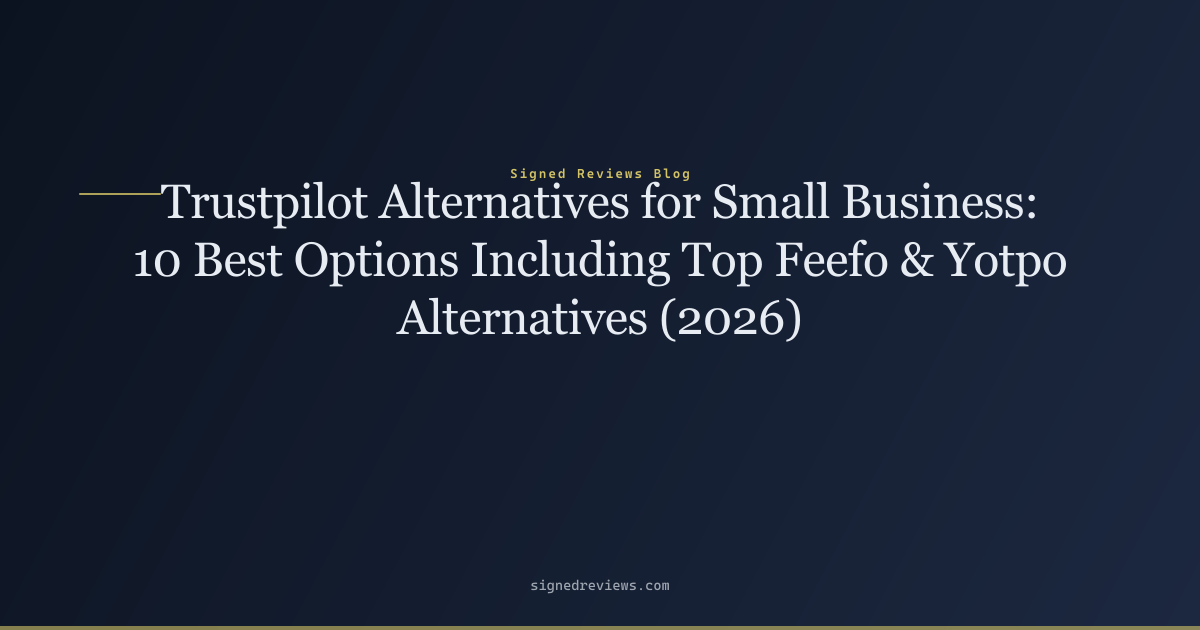
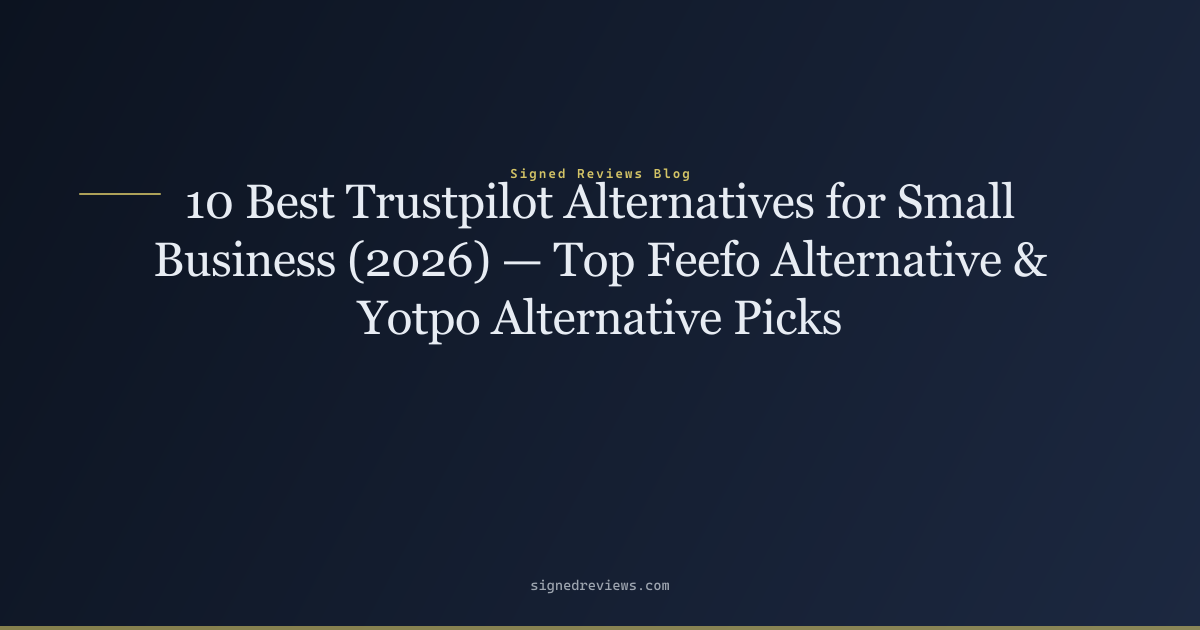
@ SEO: add exact keyword feefo alternative to title
- Changed H1 from "Top Feefo & Yotpo Alternatives" to "Top Feefo Alternative & Yotpo Alternative Picks"
- "feefo alternative" now appears as a contiguous phrase in <title>
- All other elements (meta, H2, body, internal links) unchanged

@

Changed region(s): [[0.0925, 0.2714, 0.8942, 0.5429]]

diff --git a/blog/trustpilot-alternatives-for-small-business/index.html b/blog/trustpilot-alternatives-for-small-business/index.html
@@ -3,20 +3,20 @@
 <head>
   <meta charset="UTF-8">
   <meta name="viewport" content="width=device-width, initial-scale=1.0">
-  <title>Trustpilot Alternatives for Small Business: 10 Best Options Including Top Feefo &amp; Yotpo Alternatives (2026) — Signed Reviews Blog</title>
+  <title>10 Best Trustpilot Alternatives for Small Business (2026) — Top Feefo Alternative &amp; Yotpo Alternative Picks — Signed Reviews Blog</title>
   <meta name="description" content="The 10 best Trustpilot alternatives for small business — including the top feefo alternative and yotpo alternative picks. Ranked by verification strength with p">
   <link rel="canonical" href="https://signedreviews.com/blog/trustpilot-alternatives-for-small-business/">
   <meta name="robots" content="index, follow">
   <meta name="theme-color" content="#0c1320">
 
   <meta property="og:type" content="article">
-  <meta property="og:title" content="Trustpilot Alternatives for Small Business: 10 Best Options Including Top Feefo &amp; Yotpo Alternatives (2026) — Signed Reviews Blog">
+  <meta property="og:title" content="10 Best Trustpilot Alternatives for Small Business (2026) — Top Feefo Alternative &amp; Yotpo Alternative Picks — Signed Reviews Blog">
   <meta property="og:description" content="The 10 best Trustpilot alternatives for small business — including the top feefo alternative and yotpo alternative picks. Ranked by verification strength with p">
   <meta property="og:url" content="https://signedreviews.com/blog/trustpilot-alternatives-for-small-business/">
   <meta property="og:site_name" content="Signed Reviews">
   <meta property="og:image" content="https://signedreviews.com/images/og/trustpilot-alternatives-for-small-business.png">
   <meta name="twitter:card" content="summary_large_image">
-  <meta name="twitter:title" content="Trustpilot Alternatives for Small Business: 10 Best Options Including Top Feefo &amp; Yotpo Alternatives (2026) — Signed Reviews Blog">
+  <meta name="twitter:title" content="10 Best Trustpilot Alternatives for Small Business (2026) — Top Feefo Alternative &amp; Yotpo Alternative Picks — Signed Reviews Blog">
   <meta name="twitter:description" content="The 10 best Trustpilot alternatives for small business — including the top feefo alternative and yotpo alternative picks. Ranked by verification strength with p">
   <meta name="twitter:image" content="https://signedreviews.com/images/og/trustpilot-alternatives-for-small-business.png">
 
@@ -524,9 +524,9 @@ main { padding: 0; }
     })();
   </script>
   <script type="application/ld+json">{"@context":"https://schema.org","@type":"Organization","name":"Signed Reviews","legalName":"Paid Rightly LLC","url":"https://signedreviews.com","logo":"https://signedreviews.com/images/SignedReviews_logo_only.png","description":"Signed Reviews is a SaaS platform that helps businesses collect verified, tamper-evident customer reviews by linking each review to a completed Stripe transaction.","email":"support@signedreviews.com","address":{"@type":"PostalAddress","streetAddress":"1209 Mountain Road Pl NE, Ste N","addressLocality":"Albuquerque","addressRegion":"NM","postalCode":"87110","addressCountry":"US"}}</script>
-  <script type="application/ld+json">{"@context":"https://schema.org","@type":"BreadcrumbList","itemListElement":[{"@type":"ListItem","position":1,"name":"Home","item":"https://signedreviews.com/"},{"@type":"ListItem","position":2,"name":"Blog","item":"https://signedreviews.com/blog/"},{"@type":"ListItem","position":3,"name":"Trustpilot Alternatives for Small Business: 10 Best Options Including Top Feefo & Yotpo Alternatives (2026)","item":"https://signedreviews.com/blog/trustpilot-alternatives-for-small-business/"}]}</script>
+  <script type="application/ld+json">{"@context":"https://schema.org","@type":"BreadcrumbList","itemListElement":[{"@type":"ListItem","position":1,"name":"Home","item":"https://signedreviews.com/"},{"@type":"ListItem","position":2,"name":"Blog","item":"https://signedreviews.com/blog/"},{"@type":"ListItem","position":3,"name":"10 Best Trustpilot Alternatives for Small Business (2026)","item":"https://signedreviews.com/blog/trustpilot-alternatives-for-small-business/"}]}</script>
 
-  <script type="application/ld+json">{"@context":"https://schema.org","@type":"BlogPosting","headline":"Trustpilot Alternatives for Small Business: 10 Best Options Including Top Feefo & Yotpo Alternatives (2026)","description":"The 10 best Trustpilot alternatives for small business — including the top feefo alternative and yotpo alternative picks. Ranked by verification strength with p","datePublished":"2026-07-24","dateModified":"2026-07-24","mainEntityOfPage":{"@type":"WebPage","@id":"https://signedreviews.com/blog/trustpilot-alternatives-for-small-business/"},"image":["https://signedreviews.com/images/og/trustpilot-alternatives-for-small-business.png"],"author":{"@type":"Organization","name":"Signed Reviews","url":"https://signedreviews.com"},"publisher":{"@type":"Organization","name":"Signed Reviews","logo":{"@type":"ImageObject","url":"https://signedreviews.com/images/SignedReviews_logo_only.png"}}}</script>
+  <script type="application/ld+json">{"@context":"https://schema.org","@type":"BlogPosting","headline":"10 Best Trustpilot Alternatives for Small Business (2026) — Top Feefo Alternative & Yotpo Alternative Picks","description":"The 10 best Trustpilot alternatives for small business — including the top feefo alternative and yotpo alternative picks. Ranked by verification strength with p","datePublished":"2026-07-24","dateModified":"2026-07-24","mainEntityOfPage":{"@type":"WebPage","@id":"https://signedreviews.com/blog/trustpilot-alternatives-for-small-business/"},"image":["https://signedreviews.com/images/og/trustpilot-alternatives-for-small-business.png"],"author":{"@type":"Organization","name":"Signed Reviews","url":"https://signedreviews.com"},"publisher":{"@type":"Organization","name":"Signed Reviews","logo":{"@type":"ImageObject","url":"https://signedreviews.com/images/SignedReviews_logo_only.png"}}}</script>
 </head>
 <body>
   <a class="skip-link" href="#main">Skip to main content</a>
@@ -567,7 +567,7 @@ main { padding: 0; }
     <section class="page-hero">
       <div class="page-hero-inner">
         <span class="eyebrow">Blog</span>
-        <h1>Trustpilot Alternatives for Small Business: 10 Best Options Including Top Feefo & Yotpo Alternatives (2026)</h1>
+        <h1>10 Best Trustpilot Alternatives for Small Business (2026) — Top Feefo Alternative & Yotpo Alternative Picks</h1>
         <p>The 10 best Trustpilot alternatives for small business — including the top feefo alternative and yotpo alternative picks. Ranked by verification strength with p</p>
       </div>
     </section>

diff --git a/blog/index.html b/blog/index.html
@@ -589,7 +589,7 @@ main { padding: 0; }
       <p style="margin:0;color:var(--text);font-size:.95rem;">Trustpilot pricing explained: what each plan actually costs in 2026. See the real prices, hidden costs, and how alternatives compare.</p>
     </div>
     <div style="margin-bottom:1.5rem;padding-bottom:1.5rem;border-bottom:1px solid var(--border);">
-      <h2 style="margin:0 0 .3rem;font-size:1.25rem;"><a href="/blog/trustpilot-alternatives-for-small-business/" style="text-decoration:none;">Trustpilot Alternatives for Small Business: 10 Best Options Including Top Feefo &amp; Yotpo Alternatives (2026)</a></h2>
+      <h2 style="margin:0 0 .3rem;font-size:1.25rem;"><a href="/blog/trustpilot-alternatives-for-small-business/" style="text-decoration:none;">10 Best Trustpilot Alternatives for Small Business (2026) — Top Feefo Alternative &amp; Yotpo Alternative Picks</a></h2>
       <p class="post-meta" style="color:var(--muted);font-size:.85rem;margin:0 0 .4rem;">2026-07-24</p>
       <p style="margin:0;color:var(--text);font-size:.95rem;">The 10 best Trustpilot alternatives for small business — including the top feefo alternative and yotpo alternative picks. Ranked by verification strength with p</p>
     </div>

diff --git a/files/blog/trustpilot-alternatives-for-small-business.md b/files/blog/trustpilot-alternatives-for-small-business.md
@@ -1,4 +1,4 @@
-# Trustpilot Alternatives for Small Business: 10 Best Options Including Top Feefo & Yotpo Alternatives (2026)
+# 10 Best Trustpilot Alternatives for Small Business (2026) — Top Feefo Alternative & Yotpo Alternative Picks
 
 **Published:** 2026-07-24 · **Author:** Signed Reviews Team · **Description:** The 10 best Trustpilot alternatives for small business — including the top feefo alternative and yotpo alternative picks. Ranked by verification strength with pricing, comparisons, and recommendations by business type.
 
